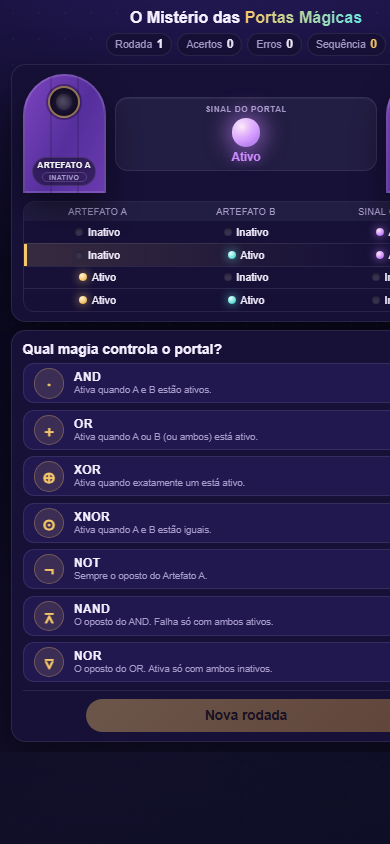
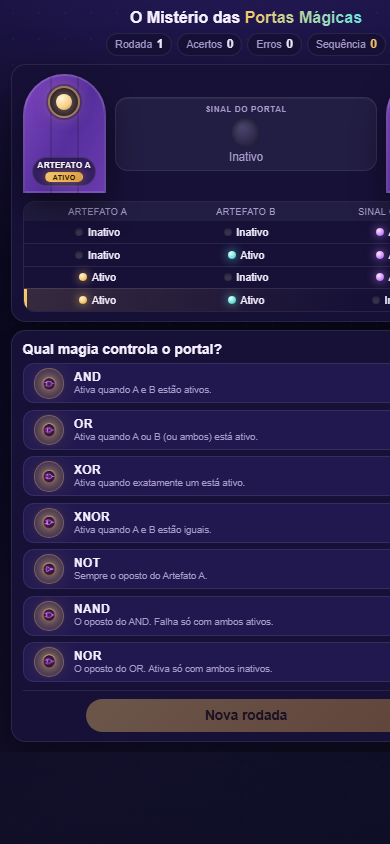
Adicionado icones

diff --git a/style.css b/style.css
@@ -674,6 +674,24 @@ body::after {
   cursor: default;
 }
 
+.magic-icon-img {
+  width: 52px;
+  height: 52px;
+  object-fit: contain;
+  flex-shrink: 0;
+  display: block;
+  filter: drop-shadow(0px 0px 8px rgba(234, 179, 8, 0.65)) 
+          drop-shadow(0px 0px 16px rgba(168, 85, 247, 0.45));
+  
+  transition: transform 0.2s ease, filter 0.2s ease;
+}
+
+.magic-option:hover .magic-icon-img {
+  transform: scale(1.05);
+  filter: drop-shadow(0px 0px 12px rgba(234, 179, 8, 0.9)) 
+          drop-shadow(0px 0px 22px rgba(168, 85, 247, 0.7));
+}
+
 .magic-sym {
   flex: 0 0 auto;
   display: flex;
@@ -689,6 +707,38 @@ body::after {
   border: 1px solid rgba(246, 199, 106, 0.3);
   border-radius: 50%;
   transition: color 0.16s ease, background 0.16s ease, border-color 0.16s ease;
+}
+
+.magic-sym__img {
+  width: 64%;
+  height: 64%;
+  object-fit: contain;
+  filter: drop-shadow(0 0 6px rgba(246, 199, 106, 0.85)) drop-shadow(0 0 14px rgba(246, 199, 106, 0.45));
+  animation: icon-glow 2.6s ease-in-out infinite;
+}
+
+@keyframes icon-glow {
+  0%,
+  100% {
+    filter: drop-shadow(0 0 5px rgba(246, 199, 106, 0.6)) drop-shadow(0 0 12px rgba(246, 199, 106, 0.35));
+  }
+  50% {
+    filter: drop-shadow(0 0 9px rgba(246, 199, 106, 0.95)) drop-shadow(0 0 22px rgba(246, 199, 106, 0.55));
+  }
+}
+
+.magic-option:hover:not(:disabled) .magic-sym__img {
+  filter: drop-shadow(0 0 8px rgba(246, 199, 106, 1)) drop-shadow(0 0 24px rgba(246, 199, 106, 0.6));
+}
+
+.magic-option.correct .magic-sym__img {
+  animation: none;
+  filter: drop-shadow(0 0 8px rgba(124, 227, 168, 0.95)) drop-shadow(0 0 20px rgba(124, 227, 168, 0.5));
+}
+
+.magic-option.wrong .magic-sym__img {
+  animation: none;
+  filter: drop-shadow(0 0 8px rgba(255, 107, 122, 0.95)) drop-shadow(0 0 20px rgba(255, 107, 122, 0.5));
 }
 
 .magic-info {

diff --git a/game.js b/game.js
@@ -122,19 +122,23 @@ function buildTable() {
 
 function buildMagics() {
   const list = $('#magicGrid');
+  list.innerHTML = ''; // Limpa antes de renderizar
+
   OPERATIONS.forEach((op) => {
     const btn = document.createElement('button');
     btn.type = 'button';
     btn.className = 'magic-option';
     btn.dataset.op = op.key;
+    
     btn.innerHTML = `
-      <span class="magic-sym" aria-hidden="true">${op.sym}</span>
-      <span class="magic-info">
+      <img class="magic-icon-img" src="icons/${op.key.toLowerCase()}.png" alt="${op.pt}" draggable="false">
+      <div class="magic-info">
         <span class="magic-name">${op.pt}<span class="magic-tag">${op.tag}</span></span>
         <span class="magic-desc">${op.desc}</span>
-      </span>
+      </div>
       <span class="magic-arrow" aria-hidden="true">→</span>
     `;
+    
     btn.addEventListener('click', () => guess(op.key));
     list.appendChild(btn);
   });
